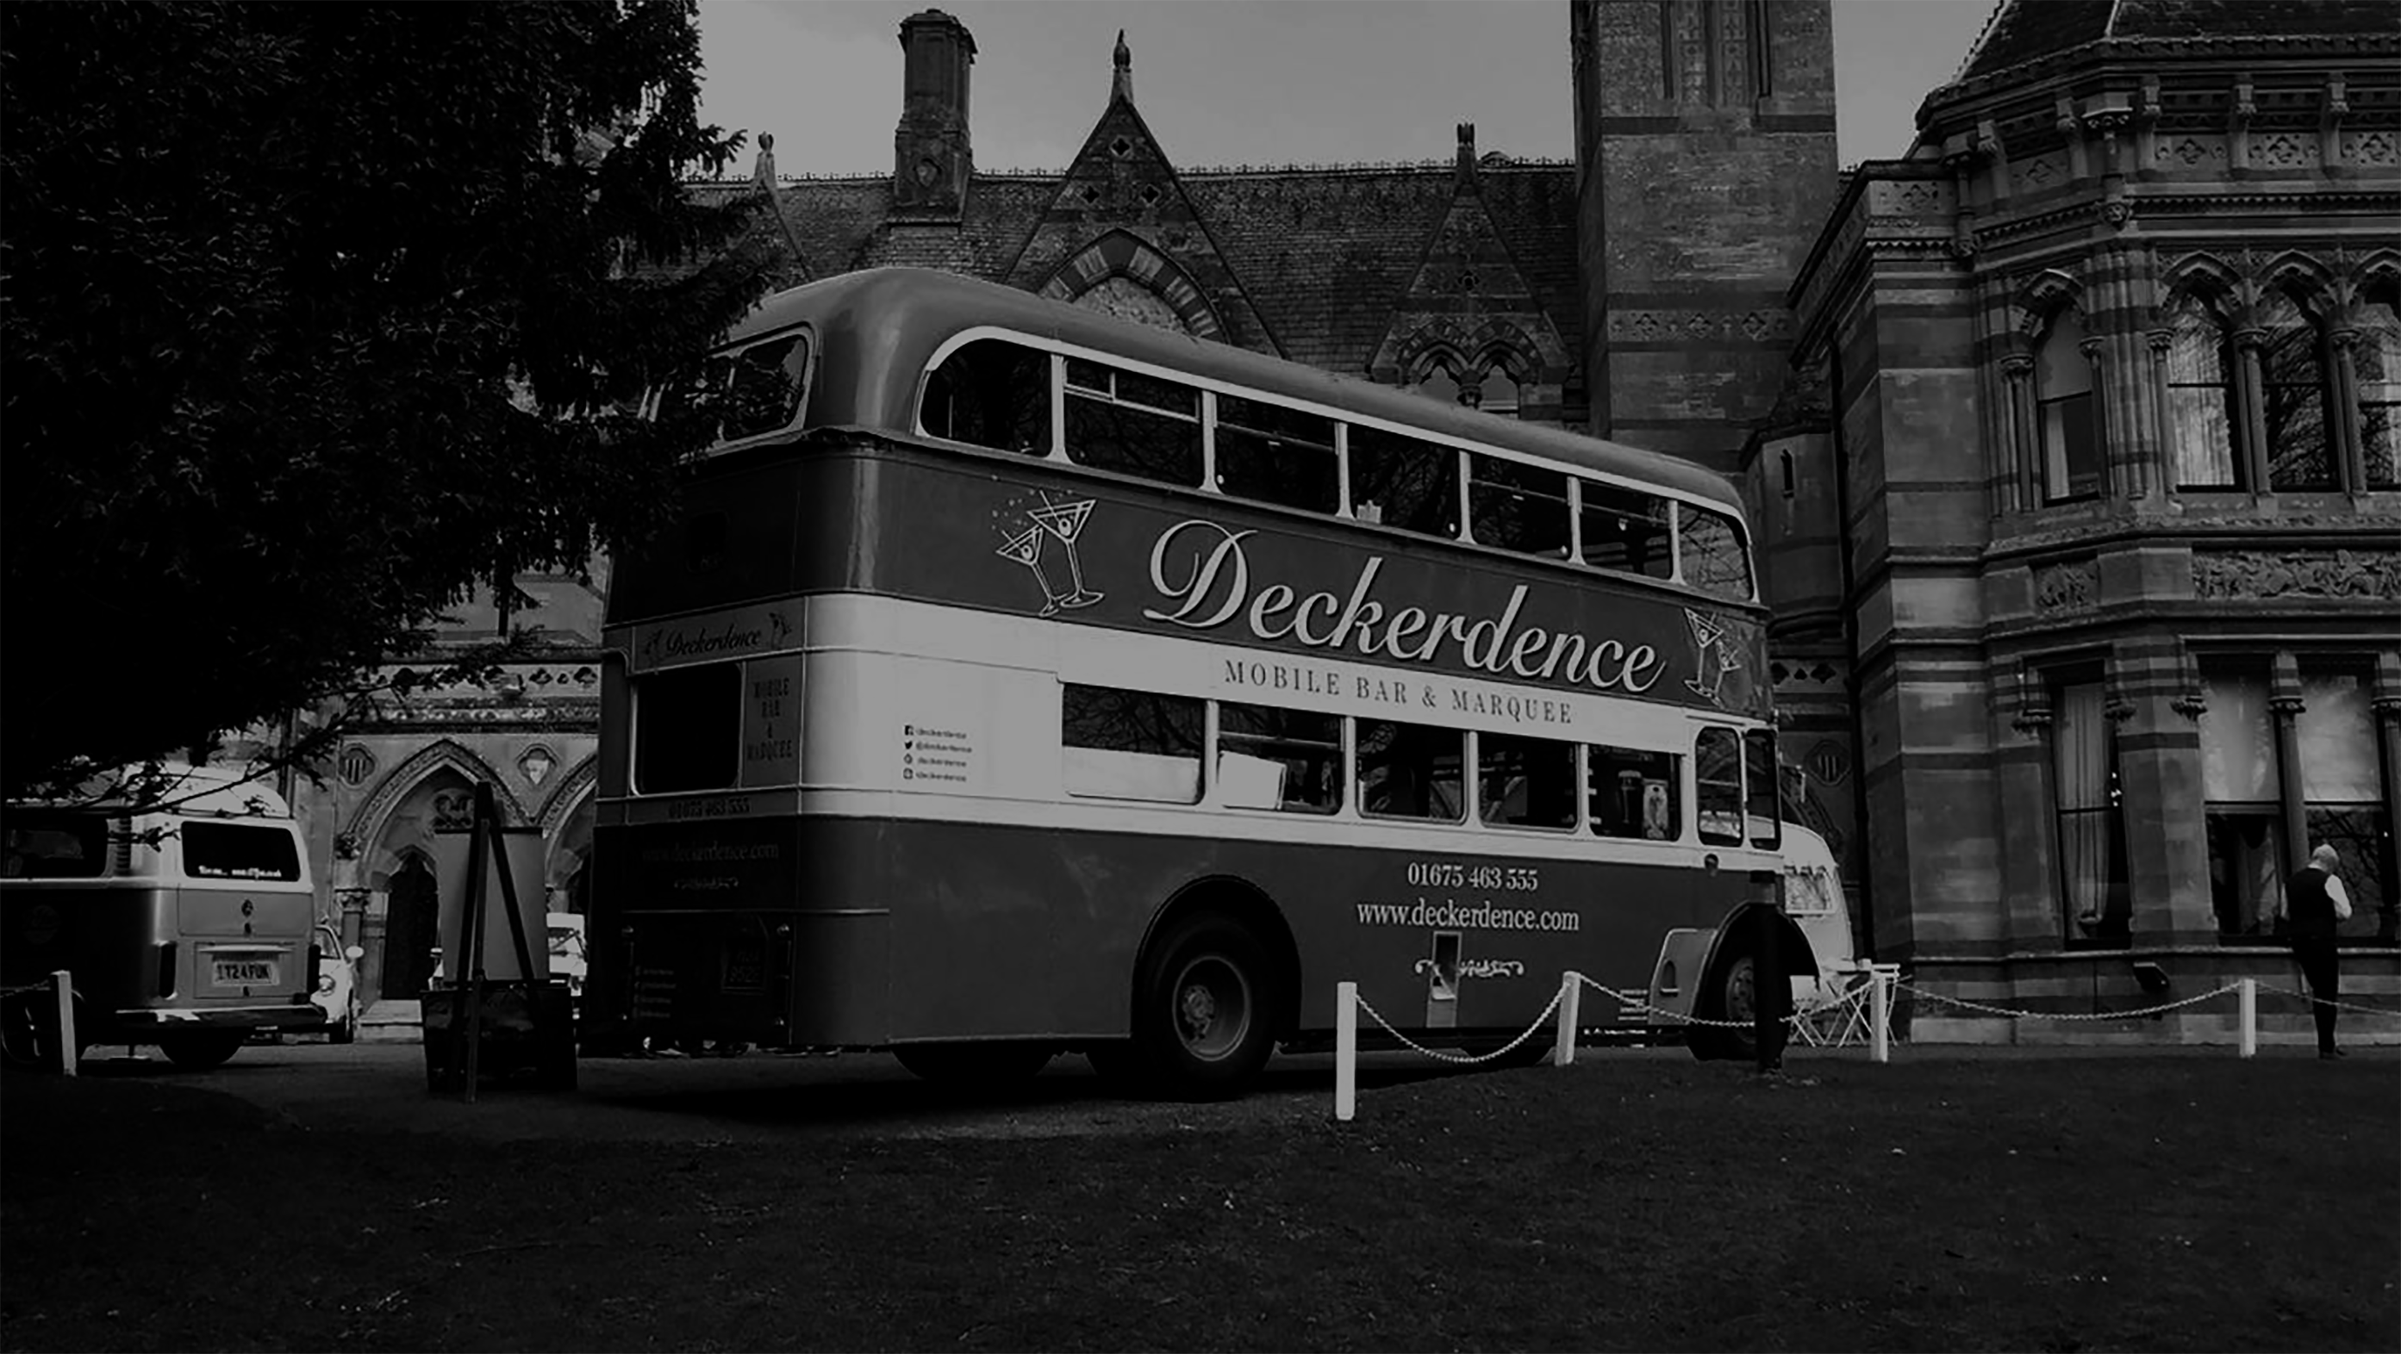
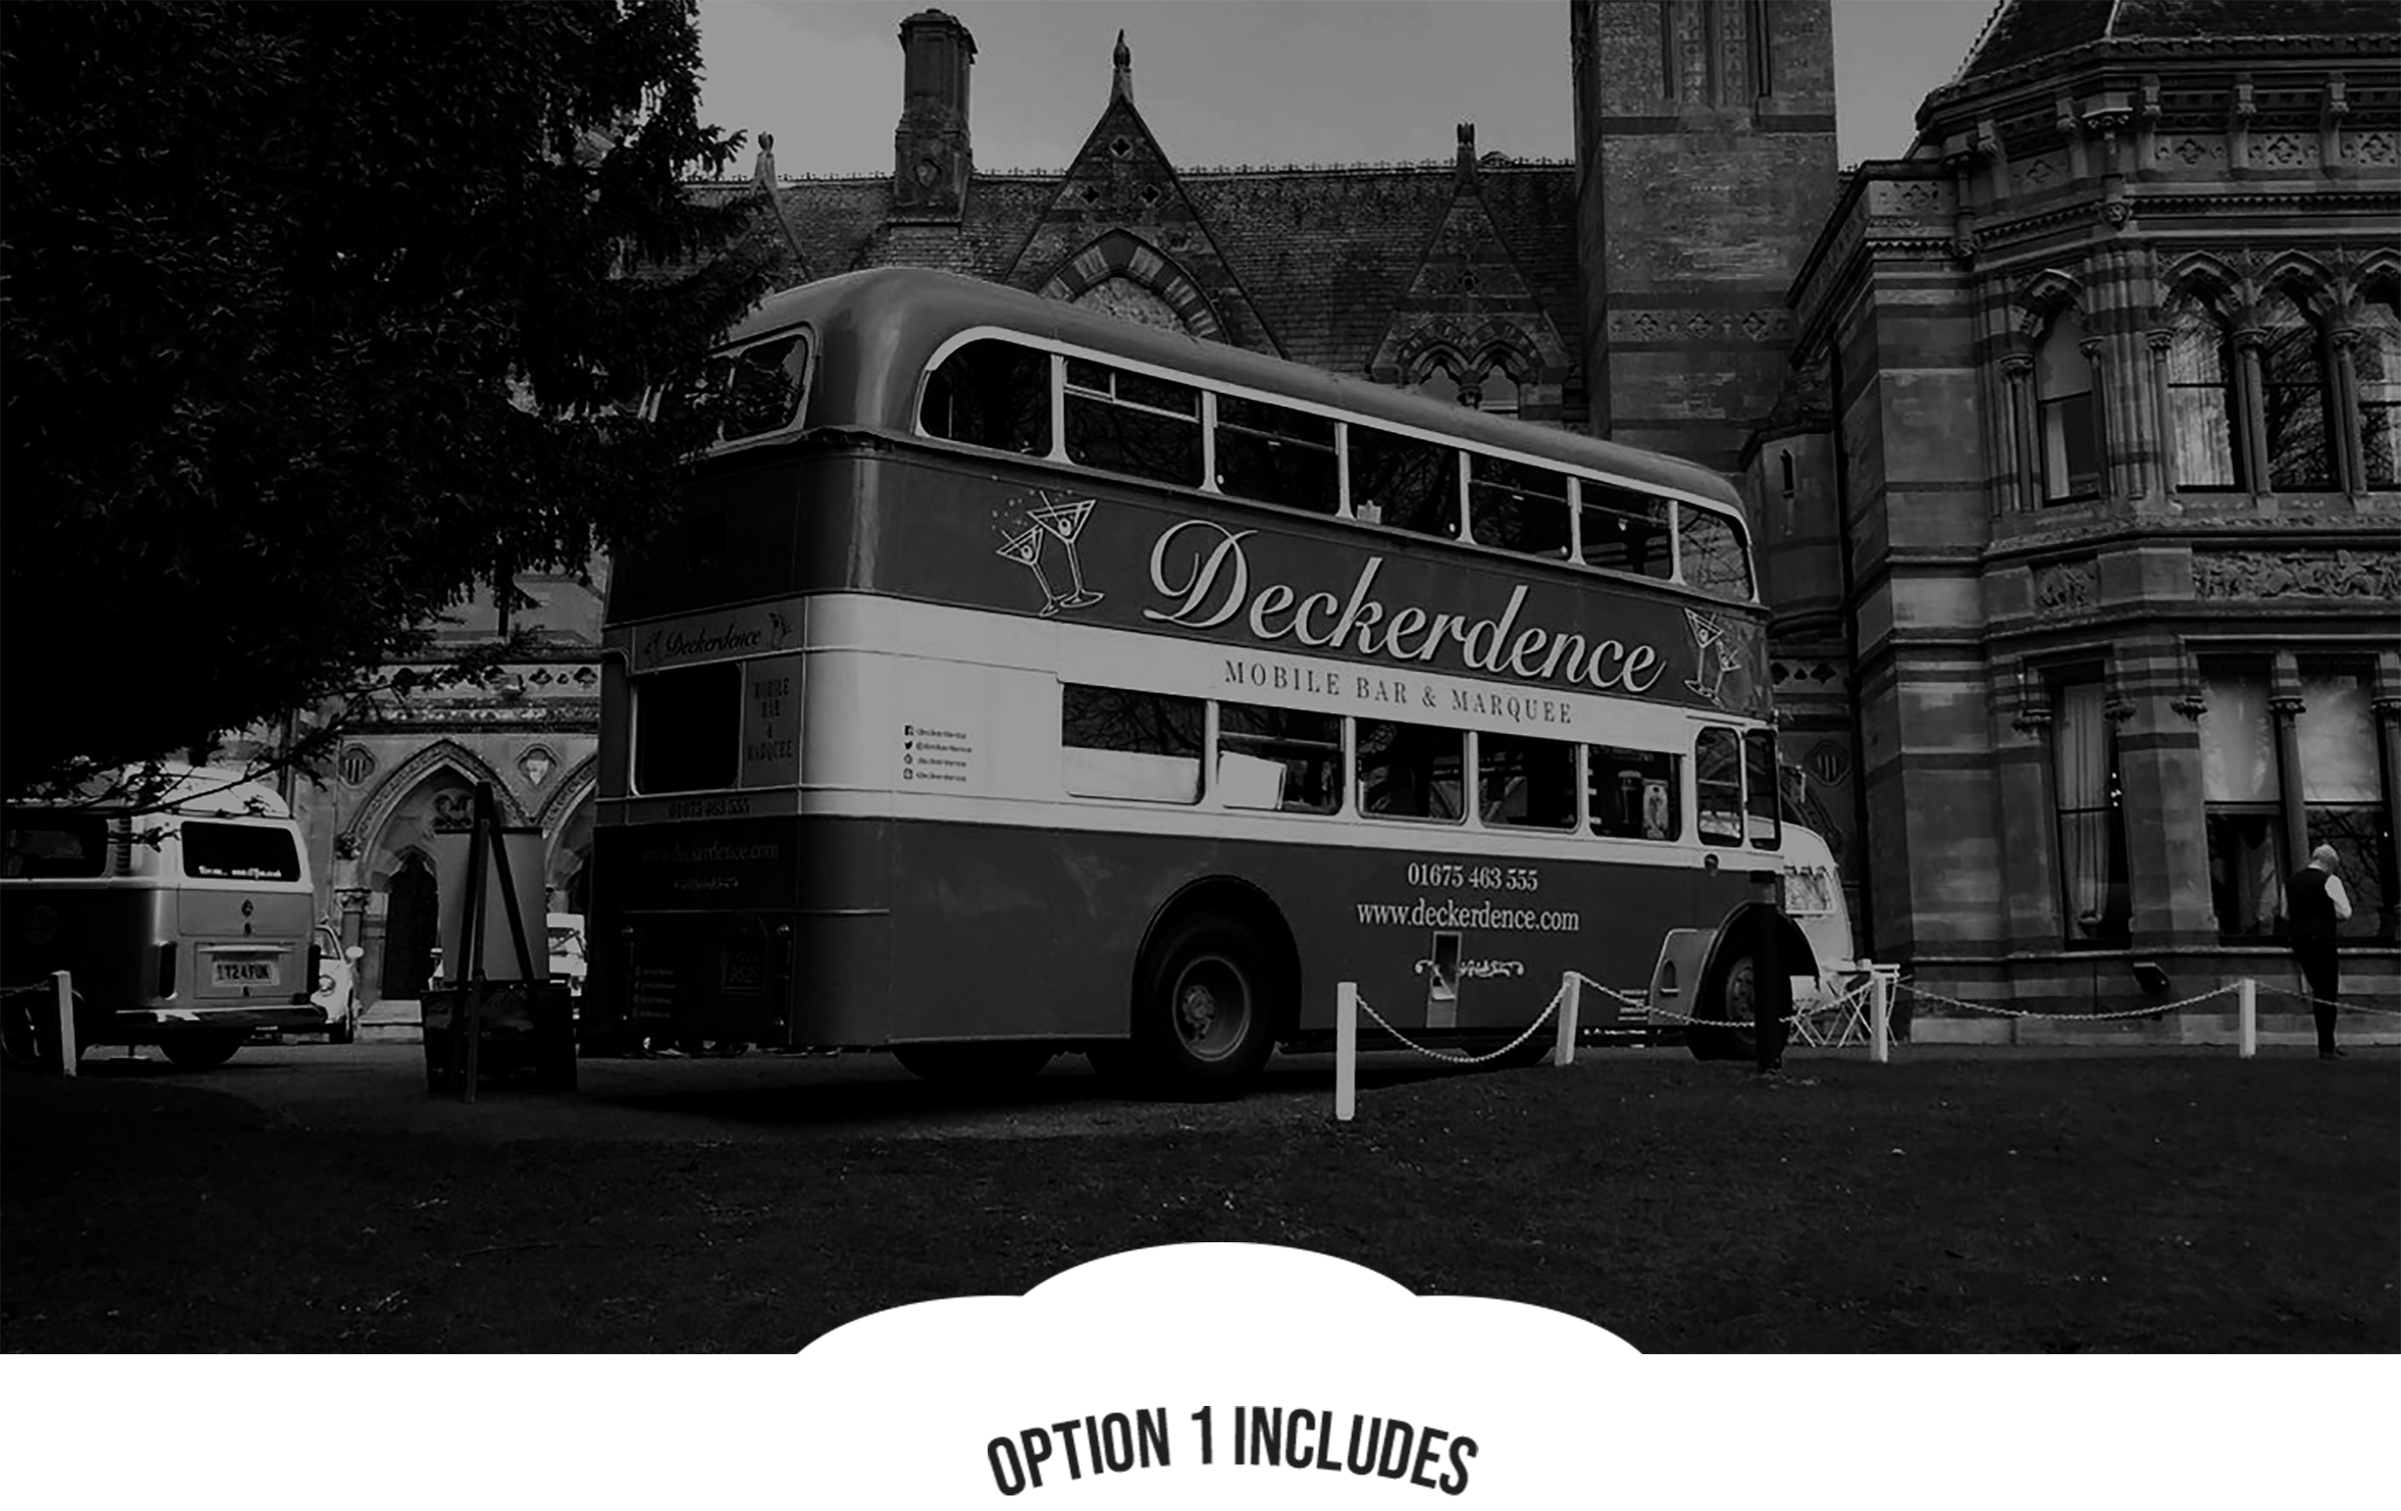
add new images

diff --git a/src/components/OptionToIncludes.js b/src/components/OptionToIncludes.js
@@ -3,8 +3,14 @@ import React from 'react';
 import styled from 'styled-components';
 
 const Section = styled.div`
-  .main-heading {
-    margin-bottom: 3rem;
+  .column {
+    background-image: url('/images/hire/background@2x.png');
+    background-size: cover;
+    margin: 0 0.5rem;
+    min-height: 9rem;
+    justify-content: center;
+    display: flex;
+    align-items: center;
   }
 `;
 
@@ -12,23 +18,29 @@ const OptionToIncludes = () => {
   return (
     <Section className="">
       <div className="container">
-        <header className="main-heading">
-          <h1 className="title has-text-weight-bold is-3 is-spaced has-text-centered">
-            OPTIONS To Includes
-          </h1>
-        </header>
         <div className="columns is-multiline">
-          <div className="column is-one-quarter">
-            <img src="/images/hire/background@2x.png" alt="" />
+          <div className="column">
+            <h2 className="title is-3 is-capatalized has-text-weight-normal">
+              vintage bus bar
+            </h2>
           </div>
-          <div className="column is-one-quarter">
-            <img src="/images/hire/background@2x.png" alt="" />
+          <div className="column">
+            {' '}
+            <h2 className="title is-3 is-capatalized has-text-weight-normal">
+              traditional bar
+            </h2>
           </div>
-          <div className="column is-one-quarter">
-            <img src="/images/hire/background@2x.png" alt="" />
+          <div className="column">
+            {' '}
+            <h2 className="title is-3 is-capatalized has-text-weight-normal">
+              cocktail lounge
+            </h2>
           </div>
-          <div className="column is-one-quarter">
-            <img src="/images/hire/background@2x.png" alt="" />
+          <div className="column">
+            {' '}
+            <h2 className="title is-3 is-capatalized has-text-weight-normal">
+              side awning
+            </h2>
           </div>
         </div>
       </div>
